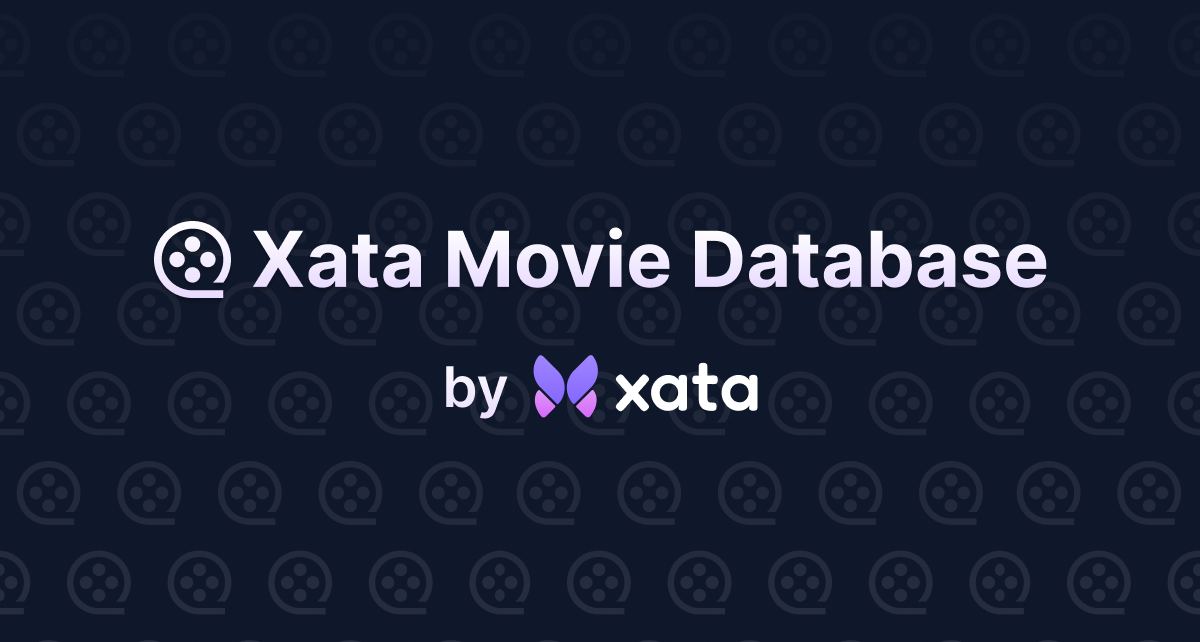
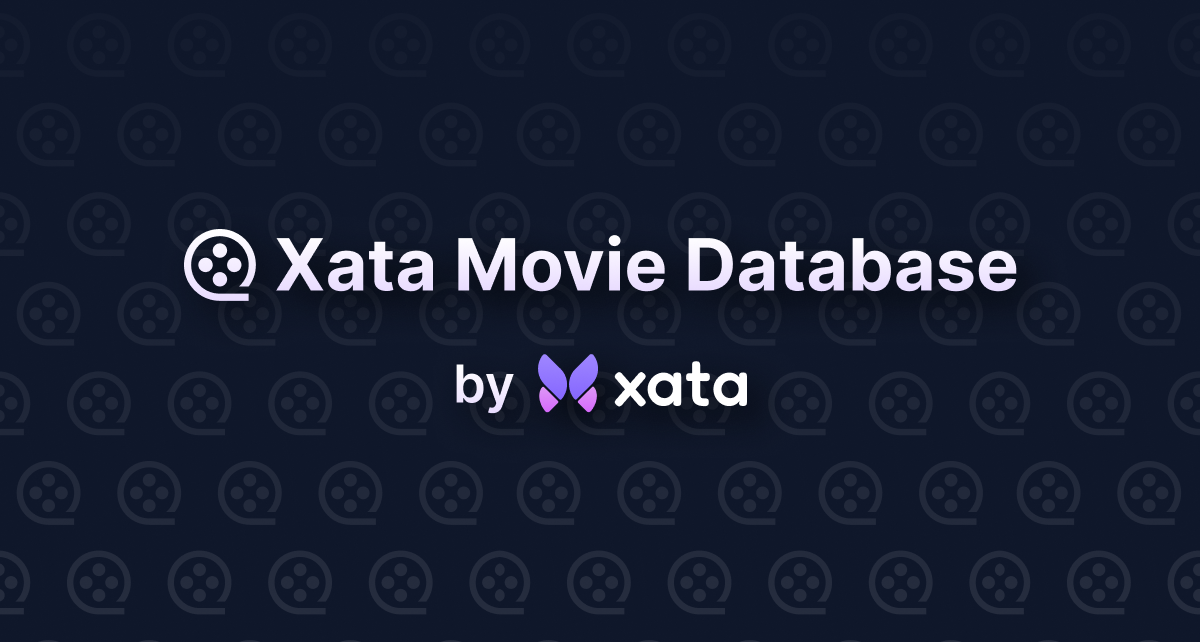
New image sizes

Changed region(s): [[0.1233, 0.3427, 0.8942, 0.4673], [0.37, 0.5607, 0.6475, 0.6542]]

diff --git a/README.md b/README.md
@@ -1,6 +1,6 @@
 <h1 align="center">
   <a href="https://xmdb.vercel.app" target="_blank">
-    <img src="/public/xmdb-hero.png" alt="Xata and XMDB logo" />
+    <img src="/public/xmdb-hero@2x.png" alt="Xata and XMDB logo" />
   </a>
 </h1>
 
